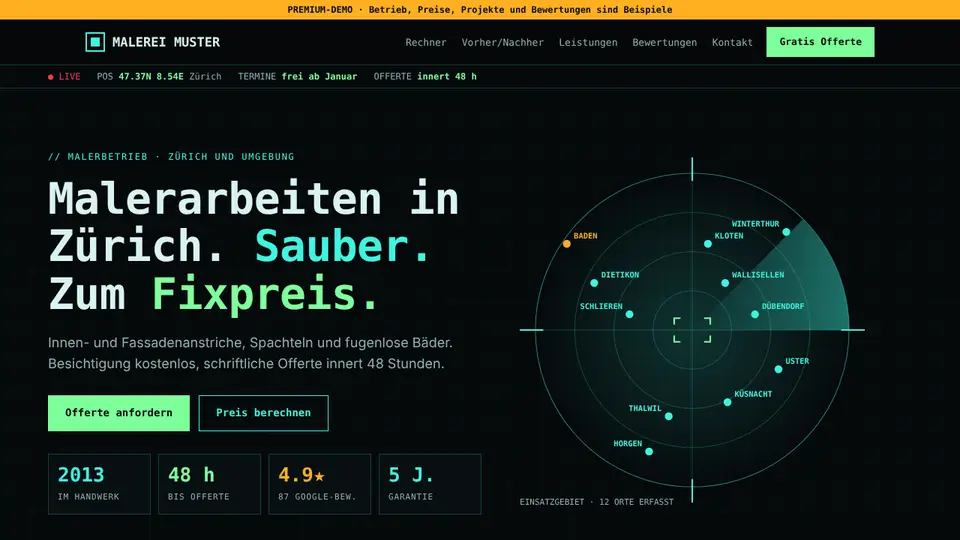
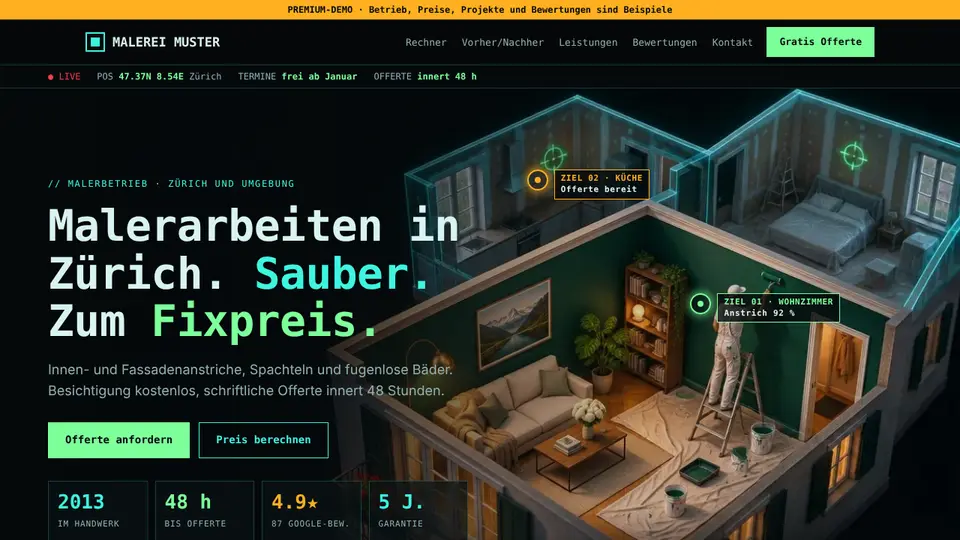
Premium-Demo: lebendiges 3D-Titelbild mit HUD-Zielen, Foto-Galerie mit 3 Projekten
Claude-Session: https://claude.ai/code/session_01QJ9qhBWSWt6m13eEh928jz

diff --git a/demo/premium/index.html b/demo/premium/index.html
@@ -49,7 +49,17 @@ a{color:inherit}
 .btn svg{width:18px;height:18px;fill:currentColor;flex:none}
 .top .btn{min-height:40px;padding:0 16px;font-size:13px}
 .btn:focus-visible,button:focus-visible,input:focus-visible,select:focus-visible,summary:focus-visible,a:focus-visible{outline:2px solid var(--am);outline-offset:2px}
-.hero{display:grid;grid-template-columns:minmax(0,1.05fr) minmax(0,.95fr);gap:clamp(24px,4vw,56px);align-items:center;position:relative}
+.hero{display:grid;grid-template-columns:minmax(0,560px);align-items:center;position:relative;z-index:2;min-height:clamp(520px,44vw,680px)}
+.hero-3d{position:absolute;inset:0;z-index:0;overflow:hidden}
+.hero-3d img{position:absolute;inset:-4%;width:108%;height:108%;object-fit:cover;object-position:right center;transform:translate3d(var(--px,0),var(--py,0),0);transition:transform .35s ease-out}
+.hero-3d::after{content:"";position:absolute;inset:0;background:linear-gradient(90deg,rgba(5,9,11,.96) 0%,rgba(5,9,11,.82) 34%,rgba(5,9,11,.2) 62%,rgba(5,9,11,0) 100%),linear-gradient(0deg,rgba(5,9,11,.9) 0%,rgba(5,9,11,0) 22%)}
+.mark{position:absolute;z-index:1;display:flex;align-items:flex-start;gap:8px;font:600 11px/1.35 "JetBrains Mono",monospace;color:var(--gr);transform:translate(-14px,-14px);pointer-events:none}
+.mark i{width:28px;height:28px;border:2px solid currentColor;border-radius:50%;position:relative;flex:none;box-shadow:0 0 14px currentColor}
+.mark i::after{content:"";position:absolute;inset:8px;background:currentColor;border-radius:50%}
+.mark b{background:rgba(5,9,11,.78);border:1px solid currentColor;padding:4px 8px;font-weight:600;letter-spacing:.06em;white-space:nowrap}
+.mark em{font-style:normal;color:var(--ink)}
+.mark.am{color:var(--am)}
+@media(prefers-reduced-motion:no-preference){.mark i{animation:puls 2s ease-out infinite}@keyframes puls{0%{box-shadow:0 0 0 0 currentColor}70%{box-shadow:0 0 0 14px rgba(0,0,0,0)}100%{box-shadow:0 0 0 0 rgba(0,0,0,0)}}.hero-3d img{animation:drift 18s ease-in-out infinite alternate}@keyframes drift{from{scale:1}to{scale:1.06}}}
 header.band{position:relative;overflow:hidden}
 .scanline{position:absolute;left:0;right:0;height:2px;background:linear-gradient(90deg,transparent,var(--cy),transparent);box-shadow:0 0 18px var(--cy);top:0;opacity:.5;animation:scan 6s linear infinite;pointer-events:none}
 @keyframes scan{from{top:0}to{top:100%}}
@@ -87,7 +97,7 @@ th{font-size:12px;letter-spacing:.1em;text-transform:uppercase;color:var(--soft)
 .n{text-align:right;white-space:nowrap;font-family:"JetBrains Mono",monospace;font-weight:600;color:var(--cy)}
 /* before after */
 .ba{position:relative;height:clamp(260px,40vw,460px);user-select:none;overflow:hidden;border:1px solid var(--line)}
-.ba svg{position:absolute;inset:0;width:100%;height:100%}
+.ba img{position:absolute;inset:0;width:100%;height:100%;object-fit:cover}
 .ba .after{clip-path:inset(0 0 0 var(--x,50%))}
 .ba .bar{position:absolute;top:0;bottom:0;left:var(--x,50%);width:2px;background:var(--cy);box-shadow:0 0 16px var(--cy);transform:translateX(-50%);pointer-events:none}
 .ba .knob{position:absolute;top:50%;left:var(--x,50%);width:54px;height:54px;border:2px solid var(--cy);background:rgba(5,9,11,.85);color:var(--cy);display:grid;place-items:center;transform:translate(-50%,-50%) rotate(45deg);pointer-events:none}
@@ -176,7 +186,7 @@ footer .wrap{display:flex;flex-wrap:wrap;justify-content:space-between;gap:10px 
 @keyframes shine{40%,100%{transform:translateX(100%)}}
 .prog{position:fixed;top:0;left:0;height:2px;background:var(--cy);box-shadow:0 0 10px var(--cy);z-index:30;width:0}
 @media(max-width:980px){.mods,.revs{grid-template-columns:repeat(2,minmax(0,1fr))}.steps{grid-template-columns:repeat(2,minmax(0,1fr))}.kpi{grid-template-columns:repeat(2,minmax(0,1fr))}}
-@media(max-width:860px){.hero,.two{grid-template-columns:minmax(0,1fr)}.scope{max-width:320px;margin:0 auto}.links{display:none}.tele{grid-template-columns:repeat(2,minmax(0,1fr))}}
+@media(max-width:860px){.two{grid-template-columns:minmax(0,1fr)}.hero{grid-template-columns:minmax(0,1fr);min-height:0;padding-top:min(56vw,360px)}.hero-3d img{object-position:78% center}.hero-3d::after{background:linear-gradient(0deg,rgba(5,9,11,1) 42%,rgba(5,9,11,.2) 75%,rgba(5,9,11,0) 100%)}.mark.am{display:none}.mark{top:24%!important;left:34%!important}.scope{max-width:320px;margin:0 auto}.links{display:none}.tele{grid-template-columns:repeat(2,minmax(0,1fr))}}
 @media(max-width:600px){.mods,.revs,.steps,.row2,.opts{grid-template-columns:minmax(0,1fr)}.top .btn{display:none}.cta .btn{flex:1;padding:0 10px;font-size:13px;white-space:nowrap}.status span:nth-child(n+3){display:none}.mbar{display:grid;grid-template-columns:1fr 1fr 1fr;gap:8px;position:fixed;left:0;right:0;bottom:0;z-index:30;padding:10px 12px calc(10px + env(safe-area-inset-bottom,0px));background:rgba(5,9,11,.96);border-top:1px solid var(--line)}.mbar .btn{padding:0 6px;font-size:13px}body{padding-bottom:72px}}
 @media(prefers-reduced-motion:reduce){*{scroll-behavior:auto!important}#boot,.scanline{display:none}.sweep,.rec::before,.cur::after{animation:none}.js .rv,.js .pt{opacity:1;transform:none}.pt.on,.ping.on{animation:none}.js .frame.rv::before,.js .frame.rv::after{transform:none;opacity:1}.btn.go::after{display:none}.tilt,.scope{transform:none!important}}
 </style>
@@ -193,7 +203,12 @@ footer .wrap{display:flex;flex-wrap:wrap;justify-content:space-between;gap:10px 
 </div></div>
 <div class="status"><span class="rec">LIVE</span><span>POS <b>47.37N 8.54E</b> Zürich</span><span>TERMINE <b>frei ab Januar</b></span><span>OFFERTE <b>innert 48 h</b></span></div>
 
-<header class="band" id="top"><div class="scanline" aria-hidden="true"></div><div class="wrap hero">
+<header class="band" id="top"><div class="hero-3d" id="h3d" aria-hidden="true">
+    <img src="img/hero-3d.webp" width="1344" height="752" alt="">
+    <span class="mark" style="left:73%;top:40%"><i></i><b>ZIEL 01 · WOHNZIMMER<br><em>Anstrich 92 %</em></b></span>
+    <span class="mark am" style="left:56%;top:17%"><i></i><b>ZIEL 02 · KÜCHE<br><em>Offerte bereit</em></b></span>
+  </div>
+  <div class="scanline" aria-hidden="true"></div><div class="wrap hero">
   <div>
     <span class="lbl">// Malerbetrieb · Zürich und Umgebung</span>
     <h1 style="margin-top:14px">Malerarbeiten in Zürich. <span class="c-cy">Sauber.</span> Zum <span class="c-gr">Fixpreis.</span></h1>
@@ -206,19 +221,7 @@ footer .wrap{display:flex;flex-wrap:wrap;justify-content:space-between;gap:10px 
       <div><b class="c-cy" data-n="5">5 J.</b><span>Garantie</span></div>
     </div>
   </div>
-  <figure class="scope" id="scope" style="margin:0">
-    <svg viewBox="0 0 440 440" role="img" aria-label="Einsatzgebiet: Zürich und Umgebung">
-      <defs><radialGradient id="rg"><stop offset="0" stop-color="#3df5e0" stop-opacity=".18"/><stop offset="1" stop-color="#3df5e0" stop-opacity="0"/></radialGradient>
-      <linearGradient id="sg" x1="0" x2="1"><stop offset="0" stop-color="#3df5e0" stop-opacity="0"/><stop offset="1" stop-color="#3df5e0" stop-opacity=".45"/></linearGradient></defs>
-      <circle cx="220" cy="220" r="200" fill="url(#rg)" stroke="#3df5e0" stroke-opacity=".5"/>
-      <g fill="none" stroke="#3df5e0" stroke-opacity=".22"><circle cx="220" cy="220" r="150"/><circle cx="220" cy="220" r="100"/><circle cx="220" cy="220" r="50"/><path d="M20 220H420M220 20V420"/></g>
-      <g stroke="#3df5e0" stroke-width="2"><path d="M220 0v30M220 410v30M0 220h30M410 220h30"/></g>
-      <path class="sweep" d="M220 220 L420 220 A200 200 0 0 0 361 79 Z" fill="url(#sg)"/>
-      <g id="towns" font-family="JetBrains Mono,monospace" font-size="10" font-weight="600"></g>
-      <g fill="none" stroke="#7dff9a" stroke-width="2"><path d="M205 205h-8v8M235 205h8v8M205 235h-8v-8M235 235h8v-8"/></g>
-    </svg>
-    <figcaption>EINSATZGEBIET · 12 ORTE ERFASST</figcaption>
-  </figure>
+  
 </div></header>
 
 <section class="band" id="rechner" style="padding-top:0"><div class="wrap two">
@@ -241,8 +244,8 @@ footer .wrap{display:flex;flex-wrap:wrap;justify-content:space-between;gap:10px 
 <section class="band" id="vorher" style="padding-top:0"><div class="wrap">
   <div class="sec-head rv"><div><span class="lbl">// Galerie</span><h2 style="margin-top:8px">Vorher und nachher</h2></div><p>Regler ziehen. Auf Ihrer echten Website stehen hier Fotos Ihrer eigenen Projekte.</p></div>
   <div class="ba rv" id="ba">
-    <svg viewBox="0 0 1200 440" preserveAspectRatio="xMidYMid slice" aria-hidden="true" id="baB"></svg>
-    <svg class="after" viewBox="0 0 1200 440" preserveAspectRatio="xMidYMid slice" aria-hidden="true" id="baA"></svg>
+    <img id="baB" src="img/wohnzimmer-vorher.webp" width="1072" height="600" alt="">
+    <img id="baA" class="after" src="img/wohnzimmer-nachher.webp" width="1072" height="600" alt="">
     <span class="tag" style="left:14px;--c:var(--rd)">Vorher</span><span class="tag" style="right:14px;--c:var(--gr)">Nachher</span>
     <div class="bar"></div><div class="knob"><span>↔</span></div>
     <input type="range" min="0" max="100" value="50" id="bax" aria-label="Vorher / nachher vergleichen">
@@ -292,6 +295,19 @@ footer .wrap{display:flex;flex-wrap:wrap;justify-content:space-between;gap:10px 
       <div><b>Adresse</b><span>Musterstrasse 12, 8000 Zürich</span></div>
       <div><b>Zeiten</b><span>Mo–Fr 07:00–17:00</span></div>
     </div>
+    <figure class="scope" id="scope" style="margin:28px 0 0;max-width:360px;margin-left:0">
+    <svg viewBox="0 0 440 440" role="img" aria-label="Einsatzgebiet: Zürich und Umgebung">
+      <defs><radialGradient id="rg"><stop offset="0" stop-color="#3df5e0" stop-opacity=".18"/><stop offset="1" stop-color="#3df5e0" stop-opacity="0"/></radialGradient>
+      <linearGradient id="sg" x1="0" x2="1"><stop offset="0" stop-color="#3df5e0" stop-opacity="0"/><stop offset="1" stop-color="#3df5e0" stop-opacity=".45"/></linearGradient></defs>
+      <circle cx="220" cy="220" r="200" fill="url(#rg)" stroke="#3df5e0" stroke-opacity=".5"/>
+      <g fill="none" stroke="#3df5e0" stroke-opacity=".22"><circle cx="220" cy="220" r="150"/><circle cx="220" cy="220" r="100"/><circle cx="220" cy="220" r="50"/><path d="M20 220H420M220 20V420"/></g>
+      <g stroke="#3df5e0" stroke-width="2"><path d="M220 0v30M220 410v30M0 220h30M410 220h30"/></g>
+      <path class="sweep" d="M220 220 L420 220 A200 200 0 0 0 361 79 Z" fill="url(#sg)"/>
+      <g id="towns" font-family="JetBrains Mono,monospace" font-size="10" font-weight="600"></g>
+      <g fill="none" stroke="#7dff9a" stroke-width="2"><path d="M205 205h-8v8M235 205h8v8M205 235h-8v-8M235 235h8v-8"/></g>
+    </svg>
+    <figcaption>EINSATZGEBIET · 12 ORTE ERFASST</figcaption>
+  </figure>
     <div class="chips" id="areas"></div>
     <a class="btn wa walink" href="#" style="margin-top:22px"><svg viewBox="0 0 24 24" aria-hidden="true"><path d="M12 2a10 10 0 0 0-8.6 15.1L2 22l5-1.3A10 10 0 1 0 12 2zm0 18.2a8.2 8.2 0 0 1-4.2-1.1l-.3-.2-3 .8.8-2.9-.2-.3A8.2 8.2 0 1 1 12 20.2zm4.5-6.1c-.2-.1-1.5-.7-1.7-.8s-.4-.1-.6.1-.7.8-.8 1-.3.2-.5.1a6.7 6.7 0 0 1-3.3-2.9c-.2-.4.2-.4.7-1.3.1-.2 0-.3 0-.4l-.8-1.8c-.2-.5-.4-.4-.6-.4h-.5a1 1 0 0 0-.7.3 3 3 0 0 0-.9 2.2 5.2 5.2 0 0 0 1.1 2.7 11.8 11.8 0 0 0 4.5 4c1.7.7 2.3.8 3.2.6a2.7 2.7 0 0 0 1.8-1.2 2.2 2.2 0 0 0 .1-1.2c0-.1-.2-.2-.5-.3z"/></svg>Fotos per WhatsApp schicken</a>
   </div>
@@ -342,16 +358,9 @@ $('cwork').addEventListener('change',calc);$('carea').addEventListener('input',c
 fill();calc();
 
 /* before / after */
-const BA=[
- ['<rect width="1200" height="440" fill="#bfb8ac"/><g fill="#a89f91" opacity=".7"><ellipse cx="220" cy="120" rx="120" ry="60"/><ellipse cx="760" cy="80" rx="160" ry="50"/><ellipse cx="980" cy="260" rx="110" ry="70"/></g><path d="M360 40 L400 120 L380 170 L430 250 M820 180 L860 230 L850 300" stroke="#7d7466" stroke-width="3" fill="none"/><rect x="520" y="90" width="180" height="230" fill="#d8d2c6" opacity=".6"/><rect y="380" width="1200" height="60" fill="#8f7a60"/>',
-  '<rect width="1200" height="440" fill="#e9e1d2"/><rect width="760" height="372" fill="#2a6f77"/><rect x="520" y="90" width="180" height="230" fill="#f6f1e6"/><rect x="532" y="102" width="156" height="206" fill="#e6c27a"/><g transform="translate(980 372)"><rect x="-20" y="-170" width="40" height="170" fill="#c8553d"/><circle cy="-200" r="50" fill="#8fb9a8"/></g><rect y="380" width="1200" height="60" fill="#b48a5a"/><rect y="372" width="1200" height="10" fill="#fbf8f2"/>'],
- ['<rect width="1200" height="440" fill="#9fb4c2"/><rect x="200" y="60" width="800" height="380" fill="#a69c8c"/><g fill="#8a806f" opacity=".8"><rect x="260" y="120" width="40" height="300"/><rect x="560" y="80" width="30" height="340"/><rect x="820" y="140" width="50" height="280"/></g><g fill="#4b4a47"><rect x="290" y="140" width="110" height="120"/><rect x="545" y="140" width="110" height="120"/><rect x="800" y="140" width="110" height="120"/></g>',
-  '<rect width="1200" height="440" fill="#b7d4e6"/><rect x="200" y="60" width="800" height="380" fill="#f1e7d3"/><g fill="#2d4f5c"><rect x="290" y="140" width="110" height="120"/><rect x="545" y="140" width="110" height="120"/><rect x="800" y="140" width="110" height="120"/></g><g fill="#fbf8f2"><rect x="282" y="132" width="126" height="8"/><rect x="537" y="132" width="126" height="8"/><rect x="792" y="132" width="126" height="8"/></g><rect x="200" y="420" width="800" height="20" fill="#c8553d"/>'],
- ['<rect width="1200" height="440" fill="#d9d6cf"/><g stroke="#b5b0a6" stroke-width="3"><path d="M0 60H1200M0 120H1200M0 180H1200M0 240H1200M0 300H1200M0 360H1200"/><path d="M100 0V440M200 0V440M300 0V440M400 0V440M500 0V440M600 0V440M700 0V440M800 0V440M900 0V440M1000 0V440M1100 0V440"/></g><rect x="420" y="200" width="360" height="160" fill="#efece6"/>',
-  '<rect width="1200" height="440" fill="#c9c2b5"/><rect width="1200" height="440" fill="#b9b1a2" opacity=".35"/><rect x="420" y="200" width="360" height="160" rx="10" fill="#f6f3ee"/><rect x="560" y="120" width="80" height="12" fill="#3a3a3a"/><circle cx="600" cy="150" r="10" fill="#3a3a3a"/>']
-];
+const BA=[['img/wohnzimmer-vorher.webp','img/wohnzimmer-nachher.webp'],['img/fassade-vorher.webp','img/fassade-nachher.webp'],['img/bad-vorher.webp','img/bad-nachher.webp']];
 const ba=$('ba'),bx=$('bax');
-const setP=i=>{$('baB').innerHTML=BA[i][0];$('baA').innerHTML=BA[i][1]};
+const setP=i=>{$('baB').src=BA[i][0];$('baA').src=BA[i][1]};
 const setX=()=>ba.style.setProperty('--x',bx.value+'%');
 bx.addEventListener('input',setX);setX();setP(0);
 $('thumbs').addEventListener('click',e=>{const b=e.target.closest('button');if(!b)return;$('thumbs').querySelectorAll('button').forEach(x=>x.setAttribute('aria-pressed',x===b));setP(+b.dataset.p)});
@@ -427,10 +436,11 @@ if(!RM){
   el.addEventListener('pointermove',e=>{const r=el.getBoundingClientRect(),x=(e.clientX-r.left)/r.width-.5,y=(e.clientY-r.top)/r.height-.5;el.style.transform=`perspective(900px) rotateY(${x*8}deg) rotateX(${-y*8}deg) translateZ(6px)`});
   el.addEventListener('pointerleave',()=>{el.style.transform=''});
  })}
- /* radar parallax + progress bar */
- const sc=$('scope'),pr=$('prog');
+ /* 3D hero: pointer parallax + scroll depth, progress bar */
+ const hi=$('h3d'),pr=$('prog');
+ if(fine)$('top').addEventListener('pointermove',e=>{const r=hi.getBoundingClientRect(),x=(e.clientX-r.left)/r.width-.5,y=(e.clientY-r.top)/r.height-.5;hi.style.setProperty('--px',(-x*22)+'px');hi.style.setProperty('--py',(-y*14)+'px')});
  let tk=false;
- addEventListener('scroll',()=>{if(tk)return;tk=true;requestAnimationFrame(()=>{const y=scrollY,h=document.documentElement.scrollHeight-innerHeight;pr.style.width=(h>0?y/h*100:0)+'%';if(y<900)sc.style.transform=`perspective(900px) rotateX(${Math.min(y/14,30)}deg) translateY(${y*.12}px)`;tk=false})},{passive:true});
+ addEventListener('scroll',()=>{if(tk)return;tk=true;requestAnimationFrame(()=>{const y=scrollY,h=document.documentElement.scrollHeight-innerHeight;pr.style.width=(h>0?y/h*100:0)+'%';if(y<900)hi.style.setProperty('--py',(y*.18)+'px');tk=false})},{passive:true});
 }
 }
 </script>
